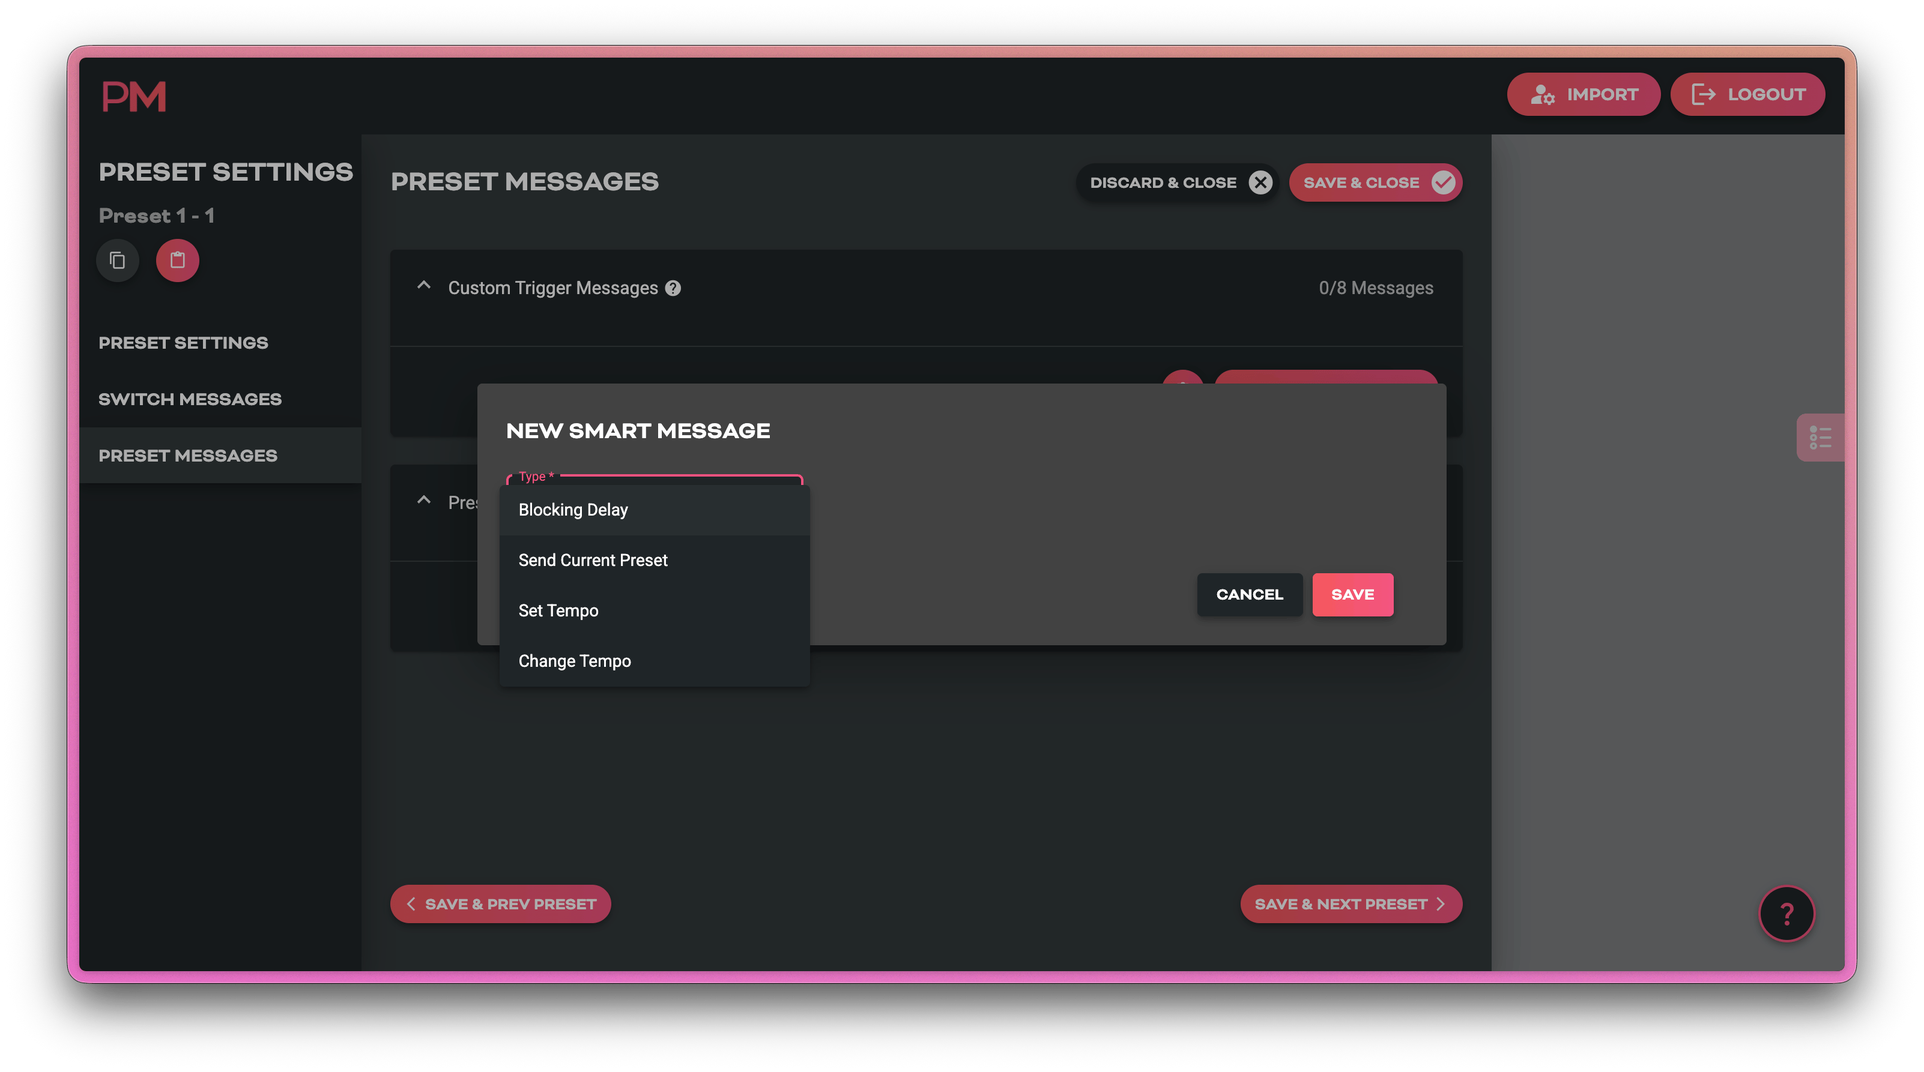
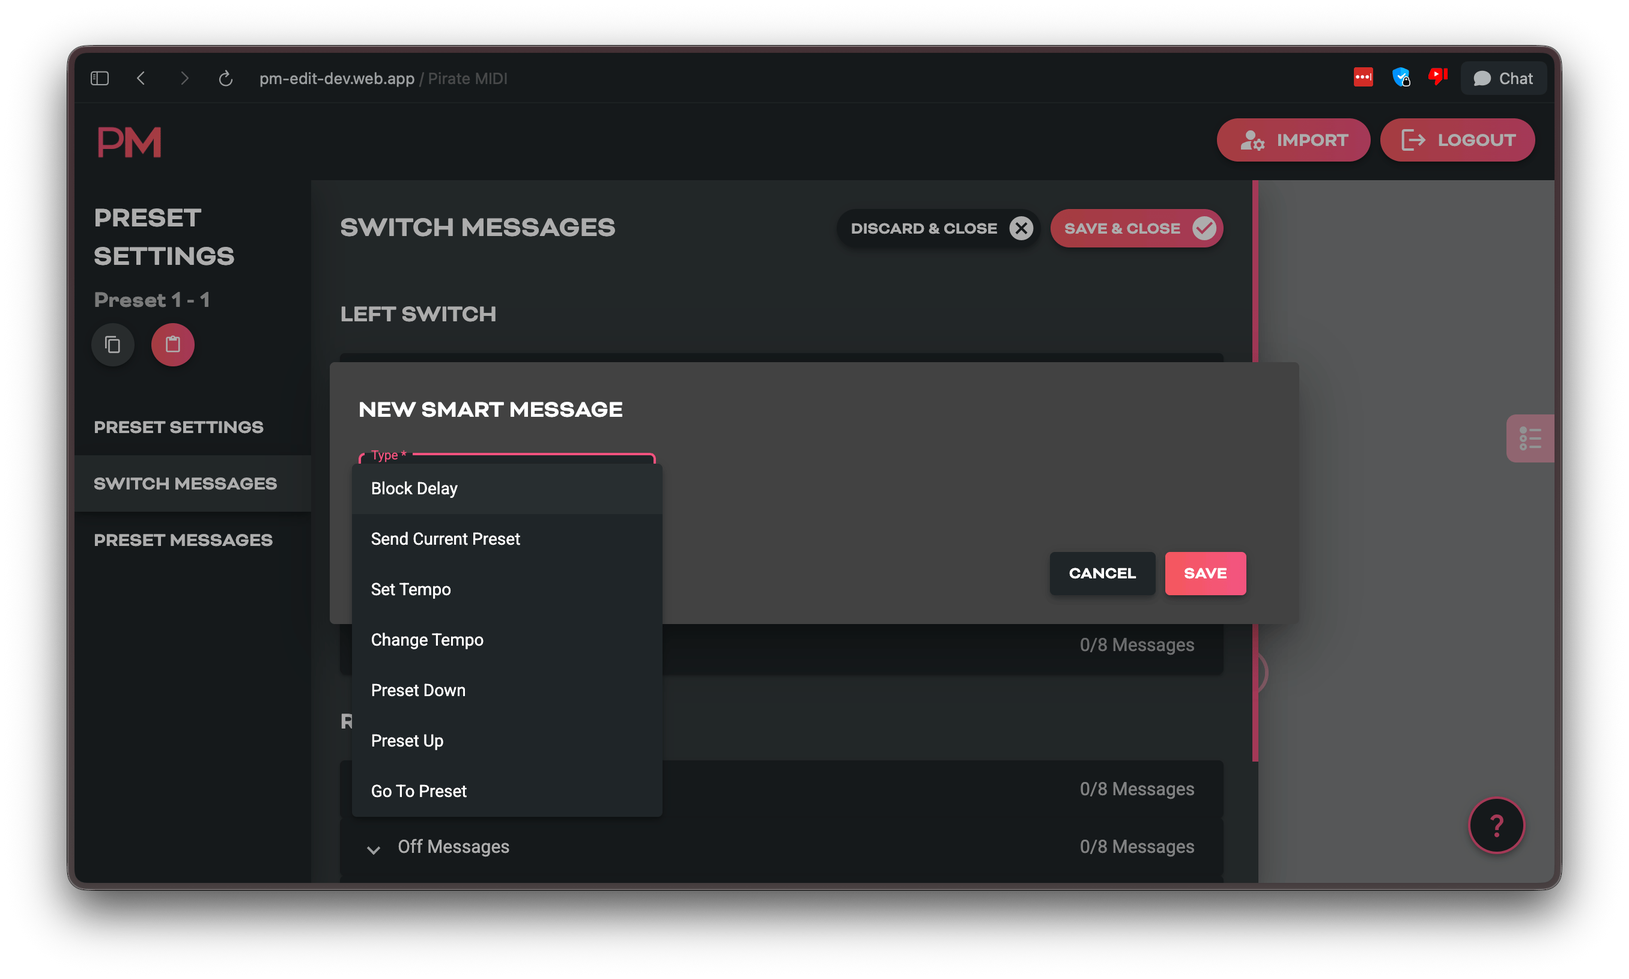
Scribble v2.0 firmware updates

diff --git a/docs/manuals/scribble/index.md b/docs/manuals/scribble/index.md
@@ -29,7 +29,7 @@ It shows **text labels**, **preset numbers**, **MIDI clock data**, and **connect
 
 - Stacks of custom MIDI messages (up to 8 messages per stack) can be triggered by sending default or user-assigned MIDI CC's to the Scribble from an external MIDI device or app. 
 
-- All configuration happens in the [**Pirate MIDI Web Editor**](https://edit.piratemidi.com) — nothing is configured directly on the hardware.
+- All configuration happens in the [**Pirate MIDI Web Editor**](https://edit.piratemidi.com). Nothing is configured directly on the hardware.
 
 
 ### Key Features
@@ -103,15 +103,15 @@ On the main screen you can:
 
 ### 4. Upload to Device
 Click **Send to Device**. Select the Scribble from the pop-up and press `Connect`
-The Scribble updates instantly — no reboot needed.
+The Scribble updates instantly. No reboot needed.
 
 
 ## Using the Web Editor
 
 ### Import Screen Overview
-- **Import from Device** — connect your device by USB and import all its configuration
-- **Import from File** — use a Pirate MIDI .json config file to load a configuration (backups, alternate configs etc.)  
-- **Create from Template** — use pre-made configs including blank, factory default, and brand or device starting templates from Pirate MIDI 
+- **Import from Device**: connect your device by USB and import all its configuration
+- **Import from File**: use a Pirate MIDI .json config file to load a configuration (backups, alternate configs etc.)  
+- **Create from Template**: use pre-made configs including blank, factory default, and brand or device starting templates from Pirate MIDI 
 
 ![Web Editor Import Page](../../assets/ScribbleImages/editor-import-page.png)
 
@@ -122,7 +122,7 @@ Each preset on the device and the editor primarily contains **these elements**:
 
 | Element | Purpose |
 |--------|---------|
-| **Primary Text Label** | 12-Character Text Field |
+| **Primary Text Label** | 16-Character Text Field |
 | **Secondary Text Label** | 16-Character Text Field |
 | **Preset Number** | Shows Scribble's Current Preset |
 | **MIDI Clock** | Shows Incoming or Generated MIDI Clock in BPM, ms, or with Flasher |
@@ -135,7 +135,7 @@ You can see these elements all displayed on the editor screenshot below
 
 ![Scribble Editor Main Page Elements](../../assets/ScribbleImages/scribble-editor-main.png)
 
-On top of these obvious parameters, there are also MIDI messages, MIDI clock, and other settings that can change how you use your Scribble.
+On top of these obvious parameters, there are also MIDI messages, Smart Messages, MIDI clock, and other settings that can change how you use your Scribble.
 
 Below the main visualisation of the Scribble, you'll also see a number of buttons near the bottom of the screen. These buttons are for navigating, copying, and pasting full presets.
 
@@ -147,7 +147,7 @@ Sometimes presets need to be swapped around. To access the drag-and-drop preset 
 ![Scribble Editor Preset Reordering](../../assets/ScribbleImages/scribble-editor-preset-reorder.png)
 
 ### Sending Your Config To The Scribble
-**Send to Device** is the button to send the modified config to the Scribble. No changes are synced until you press this button and transfer the settings - even if you first imported from the device and left the device connected with USB. 
+**Send to Device** is the button to send the modified config to the Scribble. No changes are synced until you press this button and transfer the settings - even if you first imported from the device and left the device connected with USB.
 
 ### Saving or Backing Up Multiple Configs
 Backing up your configuration is an important part of working with technology. You may also use your Scribble in different contexts and need to switch whole configurations at a moment's notice. If this is the case, you can save your configurations to your computer using the **Export as File** button.
@@ -155,9 +155,9 @@ Backing up your configuration is an important part of working with technology. Y
 A `.JSON` file will be saved to your computer. These files can be edited without the web editor as well (if you have the inclination!).
 
 ## Preset Settings Page
-Here you will find a set of submenus which let you set colours, modes, and MIDI messages that will apply **only to the current preset**. To apply the changes to a specific preset, select that preset from the main screen before entering the **Preset Settings** page. 
+Here you will find a set of submenus which let you set colours, modes, and MIDI messages that will apply **only to the current preset**. To apply the changes to a specific preset, select that preset from the main screen before entering the **Preset Settings** page. Once the Preset Settings page is open you can change to the next preset with the `Save & Next` or `Save & Previous` buttons at the bottom of the screen. 
 
-!!! tip
+!!! tip "Workflow Tip"
     The Preset Settings page contains copy and paste buttons in the left side menu. These will copy the settings of the entire preset and you can paste them to other presets. 
 
 | Submenu | What's Inside |
@@ -169,11 +169,11 @@ Here you will find a set of submenus which let you set colours, modes, and MIDI 
 ![Scribble Preset Settings Page](../../assets/ScribbleImages/scribble-editor-preset-settings.png)
 
 #### Preset Switch Messages
-Each Switch (Left and Right) has two possible actions: `Press` and `Hold`. So with just two buttons you can send 4 different sets of MIDI messages from your Scribble. 
+Each Switch (Left and Right) has three possible actions: `On`, `Off` and `Hold`. So with just two buttons and nothing else, you can send up to six different sets of MIDI messages from your Scribble. How the message stacks are triggered is dependent on the switch mode.
 
 These messages are customised per preset. If you want a switch to send the same message regardless of the current preset, use **Global Switch Messages**
 
-#### Preset Message
+#### Preset Messages
 Preset Messages are sent when you enter the selected preset on the Scribble. For example, if CC 8, value 12 is in this messages stack on Preset 12, then every time the Scribble is changed from a different preset to Preset 12 (whether internall or externally), CC 8, value 12 will be sent automatically.
 
 #### Preset Custom Trigger Messages
@@ -192,11 +192,20 @@ You can add custom MIDI messages to any message stack on the Scribble. The types
 - Note On
 - Poly Pressure
 
+To help you copy physical knob positions from your device into MIDI settings, we've also included a click-and-drag knob so you can mimic a knob position and the MIDI value is automatically calculated for you. 
+
+![MIDI Message Value Knbo](../../assets/ScribbleImages/scribble-editor-value-knob.png)
+
+### Device Library Messages
+Messages that are factory defaults and work with no setup configuration have been added to our Device Library for over 500 MIDI-controllable devices. Press the dropdown button to the right of the "Add Message" button and you can search messages by Brand and Device Name with easy-to-read command names that auto-populate the MIDI data. 
+
+Device Library messages are sent to the Scribble with an `id` number so that when importing messages from devices, the web editor can automatically show you the Device Name and Command Name in the web editor UI. This is only supported in the PIRATE MIDI Web Editor and other officially supported Device Libraries from other brands.
+
 ### Smart Messages
 
 ![Scribble Smart Messages](../../assets/ScribbleImages/scribble-editor-smart-messages.png)
 
-#### Blocking Delay
+#### Block Delay
 Add this delay message anywhere in a message stack to add a custom delay from 10ms to 1270ms in 10ms increments. You can add them anywhere and they will add a pause between MIDI messages to allow for devices which has a slower processing time or which get overwhelmed by a lot of messages in quick succession. 
 
 #### Send Current Preset
@@ -208,29 +217,68 @@ This message lets you use a button to instantly change the preset's tempo or glo
 #### Change Tempo
 Set positive or negative numbers in this message to allow incrementing or decrementing the tempo by pre-defined step sizes. If you add `5` as the value on switch 2 and `-5` as the value on switch 1, you will have quick control of the tempo in 5bpm increments. 
 
+#### Preset Down/Up
+Does what it says, but you have more control than standard up/down automatic switching. For example, you could send two MIDI messages and *then* send the preset change, or add it to a switch hold.
+
+#### Go To Preset
+This is a great way to link specific workflows with a button press on a specific preset. Always want to go have the option to re-do the Bridge on a particular song? Well, this Smart Message can let you add a "go to that preset" message anywhere you can place a MIDI message on the Scribble - Global, Preset, Custom Trigger, or just a button press. 
+
 ## Global Settings Page
-Here you will find a set of submenus which let you configure MIDI channel, MIDI outputs, MIDI Thru routing, custom global messages, and more. MIDI Messages added to a *global* message stack will not be restricted to a single preset, but available at all times in all presets.
+Here you will find a set of submenus which let you configure MIDI channel, MIDI outputs, MIDI Thru routing, custom global messages, and lots more. MIDI Messages added to a *global* message stack will not be restricted to a single preset, but available and sent at all times in all presets.
 
 | Submenu | What's Inside |
 |--------|---------|
-| **Device Settings** | USB Display Name, Light/Dark Mode, Display Brightness, Colours, |
-| **MIDI Settings** | TRS MIDI Type, Clock Mode, Ext CC, MIDI Channel, Thru Routing, MIDI Value Display (Bar Graph) |
+| **Device Settings** | Settings that change the non-MIDI functions of the device |
+| **MIDI Settings** | TRS MIDI Type, Clock Mode, Ext CC, MIDI Channel, Thru Routing etc. |
 | **Switch Settings** | Switch Modes, Global Switch Messages |
-| **Global Messages** | Global Custom Trigger MIDI Messages |
-| **Wireless Settings** | Wireless Mode, BLE Mode |
+| **Global Messages** | Global Custom Trigger MIDI Messages, Boot Messages |
+| **Wireless Settings** | Wireless Mode, BLE Role |
 
 
 ### Device Settings
-This page lets you change some fundamental global settings of the device. 
+This page lets you change fundamental behaviour and display settings of the device. 
 
 ![Scribble Global Settings Page](../../assets/ScribbleImages/scribble-editor-global-settings.png)
 
-- **Device Name:** Used to show USB name on computers. Helps to distinguish between devices when you have multiple Scribbles.
-- **Main Colour:** Global background colour (used unless overridden per preset)
-- **Text Colour:** Global text colour (used unless overridden per preset)
-- **Light/Dark Mode:** Changes the status bar colour between **Black** or **White**. This is a global-only setting. 
-- **Display Brightness:** Adjust the screen's brightness to adapt to different environments.
+| Setting | Description |
+|--------|---------|
+| **Device Name** | Changes the name of the device inside the editor (Does not change USB name) |
+| **Main Colour** | Global background colour (used unless overridden per preset) |
+| **Text Colour** | Global text colour (used unless overridden per preset) |
+| **Boot Delay** | Time in ms to delay the boot of the Scribble to allow other device to boot up and be ready first. |
+| **Min/Max Preset** | Control which presets are automatically used and scrolled. Limit the active presets as-needed. |
+| **Default Preset** | Sets which preset the Scribble will boot into when powered on. |
+| **Light/Dark Mode** | Changes the status bar colour between **Black** or **White**. This is a global-only setting. |
+| **Display Brightness** | Adjust the screen's brightness to adapt to different environments. |
+| **Transmit Switch States** | Works with "Switch Default State" per preset to send MIDI stack. Used to force expected states of connected MIDI devices. |
+| **USB Device Name** | Sets how the Scribble USB device name appears in most apps. |
+| **Rotate Display** | Rotate Display 180 degrees to flip side ports for convenience. |
+| **Zero Index Presets** | Start onboard preset counting at 0 or 1. Doesn't change MIDI data, as all MIDI messages are 0-127 regardless. |
+| **BLE Advertised Name** | Set a custom name which the Scribble advertises on BLE MIDI connections. |
+| **BLE Device Name** | Set a custom name for the Scribble as BLE Device. |
+| **UI Mode** | Select between Standard, Scrolling, and Kemper Player modes. |
 
+![Global UI Mode Settings](../../assets/ScribbleImages/scribble-editor-ui-modes.png)
+
+![Boot Delay Sequence](../../assets/ScribbleImages/scribble-startup-animation.gif)
+
+#### Preset Limiting and Default Preset
+If you have a specific situation where you want to use, say, only three presets - 12-14, you can do that here. Just set `Min Preset` to `12` and `Max Preset` to `14` and set the `Default Preset` to any of the three. Then you will only be able to scroll through those presets. If you happen to send a Smart Message with a "Go To Preset" command, you will be able to access other presets. 
+
+#### Standard UI Mode
+This mode is the regular mode you see in all the pictures. Two different custom text sections that fill the space on the screen, and custom colours and light-dark mode for the top bar. 
+
+![Scribble default UI Mode](../../assets/ScribbleImages/scribble-default-screen.jpg)
+
+#### Scrolling UI Mode
+Similar to Standard mode, but the secondary text is hidden. Additionally, the preset name of the next preset is shown above the current preset name, and the previous preset name is shown below the current preset name.
+
+![Scribble in Preset Scroll UI Mode](../../assets/ScribbleImages/scribble-scrolling-ui.jpg)
+
+#### Kemper Profiler Player UI Mode
+Kemper Profiler Player can be connected directly to the USB port of the Scribble and the device will automatically synchronise its rig and preset names, as well as show a specialised UI with the effect block shown on the Scribble screen including their bypass states.
+
+This mode is in early testing so if you have any feedback please let us know by emailing us at support@piratemidi.com or making a post in the **Scribble Feature Requests** forum on our Discord server.
 
 ### MIDI Settings
 
@@ -280,7 +328,7 @@ These options allow the Scribble to dynmaically display changes to a MIDI CC val
 
 ![Scribble Bar Graph Options](../../assets/ScribbleImages/scribble-editor-midi-value-display.png)
 
-![Scribble Showing Bar Graph](../../assets/ScribbleImages/scribble-midi-value-display.jpg)
+![Scribble Showing Bar Graph](../../assets/ScribbleImages/scribble-bar-ui.jpg)
 
 **MIDI Thru Routing**: 
 When MIDI comes into the Scribble via any of the three inputs (TRS, USB, BLE), you can choose whether that MIDI is automatically duplicated to any of the other outputs, or whether it ends its journey inside the Scribble.
@@ -288,7 +336,7 @@ When MIDI comes into the Scribble via any of the three inputs (TRS, USB, BLE), y
 This doesn't affect any MIDI messages that Scribble itself generates and sends.
 
 **Clock Outputs**: 
-MIDI clock messages can be limited to only send to selected MIDI outputs instead of all three. 
+MIDI clock messages can be limited to only send to selected MIDI outputs instead of all of them. 
 
 **Device MIDI Channel**: 
 Set a MIDI channel for your Scribble. This is highly recommended, and will be necessary to use when you are using the external MIDI control CC messages to change presets, trigger custom MIDI messages, etc.
@@ -299,7 +347,7 @@ This feature allows you to select a MIDI channel for each of the MIDI outputs (T
 This is an easy way to keep your pedal in sync with Scribble. Say you've connected a Chase Bliss Audio pedal whose channel is set to 2 (CBA's default). Simply connect your Scribble to your pedal, turn on the TRS **PC Output** to channel 2, and when you use the onboard buttons to change presets on the Scribble, the Chase Bliss Audio pedal will follow along. 
 
 **CC Values**: 
-These fields contain the factory default MIDI CCs for externally controlling the Scribble. However, if you prefer, you can set custom CC numbers instead.
+These fields contain the factory default MIDI CCs for externally controlling the Scribble and its features. However, if you prefer, you can set custom CC numbers instead.
 
 ### Global Switch Settings
 
@@ -308,15 +356,15 @@ These fields contain the factory default MIDI CCs for externally controlling the
 **Switch Modes**: 
 These modes change how each of the buttons work. You can limit Scribble preset changes only to certain switch actions, or remove them entirely.
 
-- `Press Preset Down`
-- `Press Preset Up`
-- `Hold Preset Down`
-- `Hold Preset Up`
-- `MIDI Only` Send only your custom MIDI messages
-- `Tap Tempo` only changes tempo - no other messages will send
+| Mode | Description |
+|--------|---------|
+| **Preset Up** | Preset will change up on button short release |
+| **Preset Down** | Preset will change down on button short release |
+| **Momentary** | Message stacks only. Sends On/Off/Hold stacks on press, release, and hold. |
+| **Tap Tempo** | Only changes tempo - no other messages will send. Press action triggers change. |
 
 **Press/Hold Messages**: 
-Just like preset-level switch messages, you can add custom MIDI messages that are sent on a `Press` or a `Hold` action. These will activate on every single preset, and they will be sent **in addition** to the preset-level switch messages. 
+Just like preset-level switch messages, you can add custom MIDI messages and Smart Messages that are sent on a `On`/`Off` or a `Hold` action. These will activate on every single preset, and they will be sent **in addition** to the preset-level switch messages. 
 
 ### Global Messages
 
@@ -327,6 +375,9 @@ Just like preset-level custom trigger messages, these messages will only be sent
 
 The default CC for the Global Custom Trigger Messages is `17`.
 
+**Boot Messages**:
+These messages are sent immediately when the Scribble finishes booting up. This is usually after approximately 1.5 seconds, but you can extend that amount of time by using the `Boot Delay` setting in **Device Settings**
+
 ### Wireless Settings
 
 ![Scribble Wireless Settings](../../assets/ScribbleImages/scribble-editor-wireless-settings.png)
@@ -335,12 +386,14 @@ The default CC for the Global Custom Trigger Messages is `17`.
 Use this to turn off the BLE system entirely if you prefer. 
 
 **BLE Mode**: 
-`Server` mode is the default, and `Client` is currently experimental and may not work properly. A future firmware update will expand this function. 
+`Peripheral` mode is the default, and `Central` is used when you want to connect another device, like a foot controller, directly to the Scribble using Bluetooth BLE MIDI. 
 
-`Server` mode is the standard mode for devices, as opposed to computers, phones, etc. 
+`Peripheral` mode is the standard mode for devices, as opposed to computers, phones, etc. 
 
 !!! tip
-    If you're using a CME WIDI device, set it to `Central` mode to connect to a Scribble. `Peripheral` mode on CME's products is the same as `Server`. 
+    If you're using a computer, set Scribble to `Peripheral` mode. If you're using Scribble and a BLE MIDI controller, try setting Scribble to `Central`.
+
+#### BLE Settings
 
 ## App Settings Page
 Here you will find web-editor specific tools. Currently this includes MIDI Channel Aliases. 
@@ -392,11 +445,13 @@ After you connect the Scribble to your device with one of these apps, then the B
 
 
 **iOS**
+
 - [midimittr](https://apps.apple.com/us/app/midimittr/id925495245)
 - [Bluetooth MIDI Connect](https://apps.apple.com/us/app/bluetooth-midi-connect/id1108321791)
 - [Conji](https://apps.apple.com/us/app/conji-bluetooth-le-midi/id1515014813)
 
 **Android**
+
 - [MIDI BLE Connect](https://play.google.com/store/apps/details?id=com.mobileer.example.midibtlepairing&pcampaignid=web_share)
 - [Bluetooth MIDI Connect](https://play.google.com/store/apps/details?id=bluetooth.midi.connect&pcampaignid=web_share)
 
@@ -421,12 +476,15 @@ After you connect the Scribble to your device with one of these apps, then the B
 -   **UAFX**
     Use a USB MIDI Host box and connect your Scribble to your UAFX pedals through it. Using UA's new 2.0 firmware, you now have full MIDI control of your pedals!
 
+-   **M-VAVE Chocolate**
+    Use BLE MIDI connection to wirelessly connect a BLE controller like the M-VAVE to your Scribble and control Scribble with your feet wirelessly!
+
 </div>
 
 ---
 
 ## Factory Reset
-If you need to do a factory reset, press and hold switch 1 (left switch) on the Scribble as you plug power into the device. Continue holding for about 2 seconds until you see the reset process start. Now remove your finger from the switch. 
+If you need to do a factory reset, press and hold switch 1 (left switch) on the Scribble as you plug power into the device. Continue holding for about 2 seconds until you see the reset process start. Now remove your finger from the switch.
 
 ---
 

diff --git a/docs/manuals/click-v2/index.md b/docs/manuals/click-v2/index.md
@@ -62,7 +62,7 @@ It's important that firmware updates are installed when they are available. Old 
 ![CLiCK v2 Hardware Layout 2](../../assets/ClickImages/click-hardware-2.jpeg)
 
 5. **1/4" TRS Relay Jack**: Control Tip and Ring relay states independently via MIDI.
-6. **1/4" TRS Expression Jack**: Emulates a standard TRS expression pedal. Requires 9V DC.
+6. **1/4" TRS Expression Jack**: Emulates a standard 10k Ohm TRS expression pedal. Requires 9V DC.
 7. **RGB LEDs**: Selectable modes to indicate relay, expression, MIDI, or wireless status.
 8. **Acrylic Window**: For WiFi/BLE performance. Do not cover with metal.
 9. **Enclosure**: Sturdy anodised black aluminium.
@@ -110,7 +110,7 @@ The CLiCK has 2 RGB LEDs with multiple modes selectable in the web editor's Glob
 * **USB Host (Type-C)**: Single-device USB host port. Cannot read USB hubs. Supplies USB specification power (5V, up to 500mA). Requires input power supply to match connected device's requirement.
 * **9V DC**: Standard pedal power. minimum 150mA required. More if powering a USB device via USB host port.
 * **1/4" TRS Relay**: Two independent silent relays (Tip and Ring) controllable via MIDI CC or presets.
-* **1/4" TRS Expression**: Passive variable-resistance emulation for non-MIDI pedals.
+* **1/4" TRS Expression**: Passive 10k Ohm variable-resistance emulation for non-MIDI pedals.
 * **3.5mm TRS MIDI**: Type A opto-isolated input. Output is switchable (Type A, Type B, or Aux In).
 
 ---
@@ -164,7 +164,7 @@ Only one device can be connected to the USB Host port at a time, and it will be 
 ---
 
 ## 7. Expression Emulation
-The CLiCK emulates a standard passive expression pedal. 
+The CLiCK emulates a standard 10k Ohm passive expression pedal. 
 * **Requirement**: 9V DC must be connected.
 * **Preset Position**: Set a starting value (0-127) in the web editor's "Preset Settings."
 * **On-the-Fly**: Send **MIDI CC 11** to control the position smoothly during performance.
